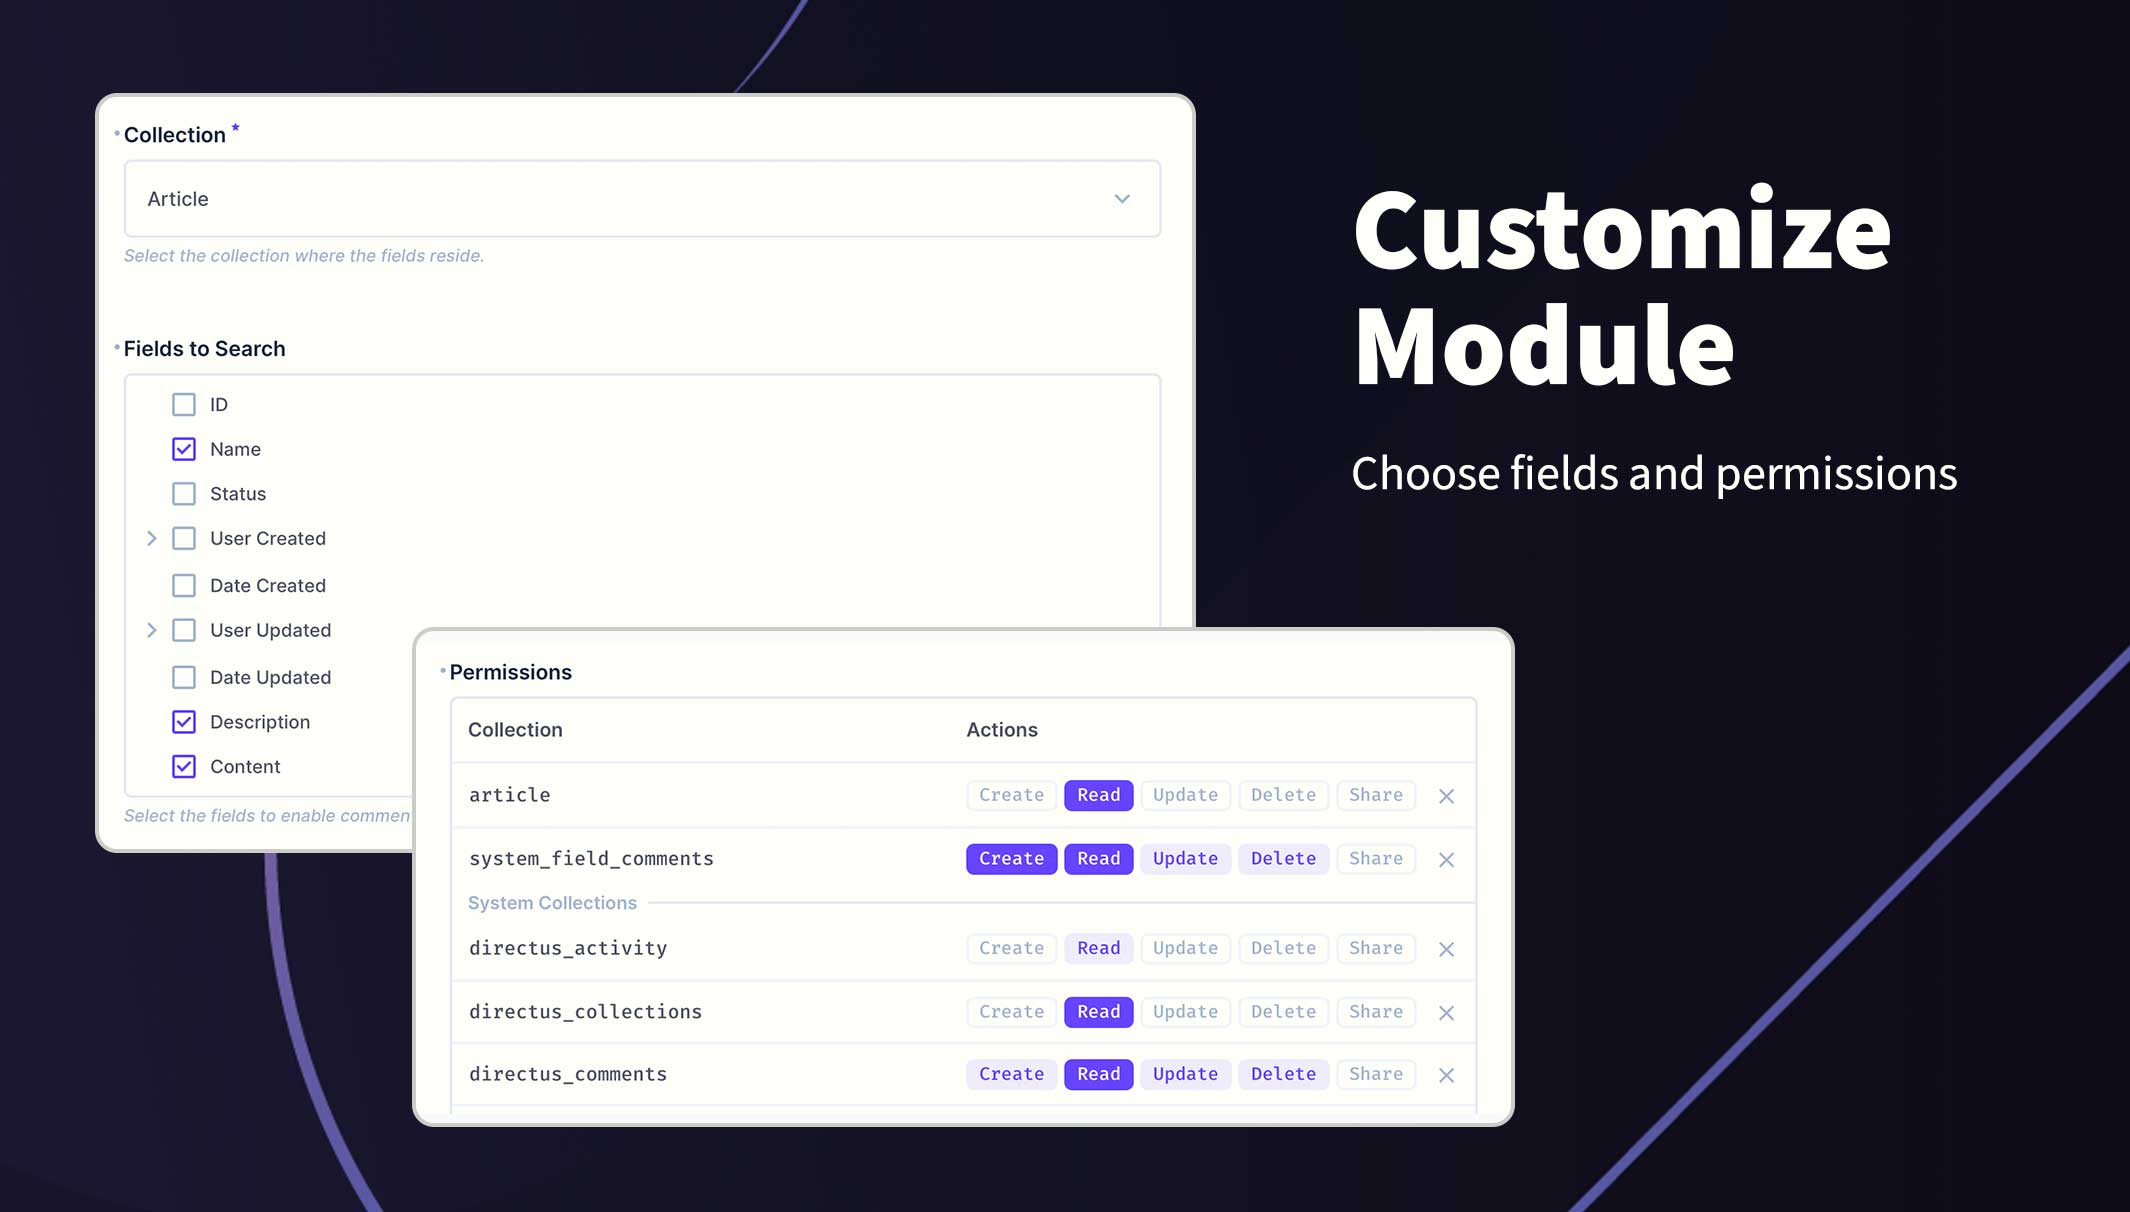
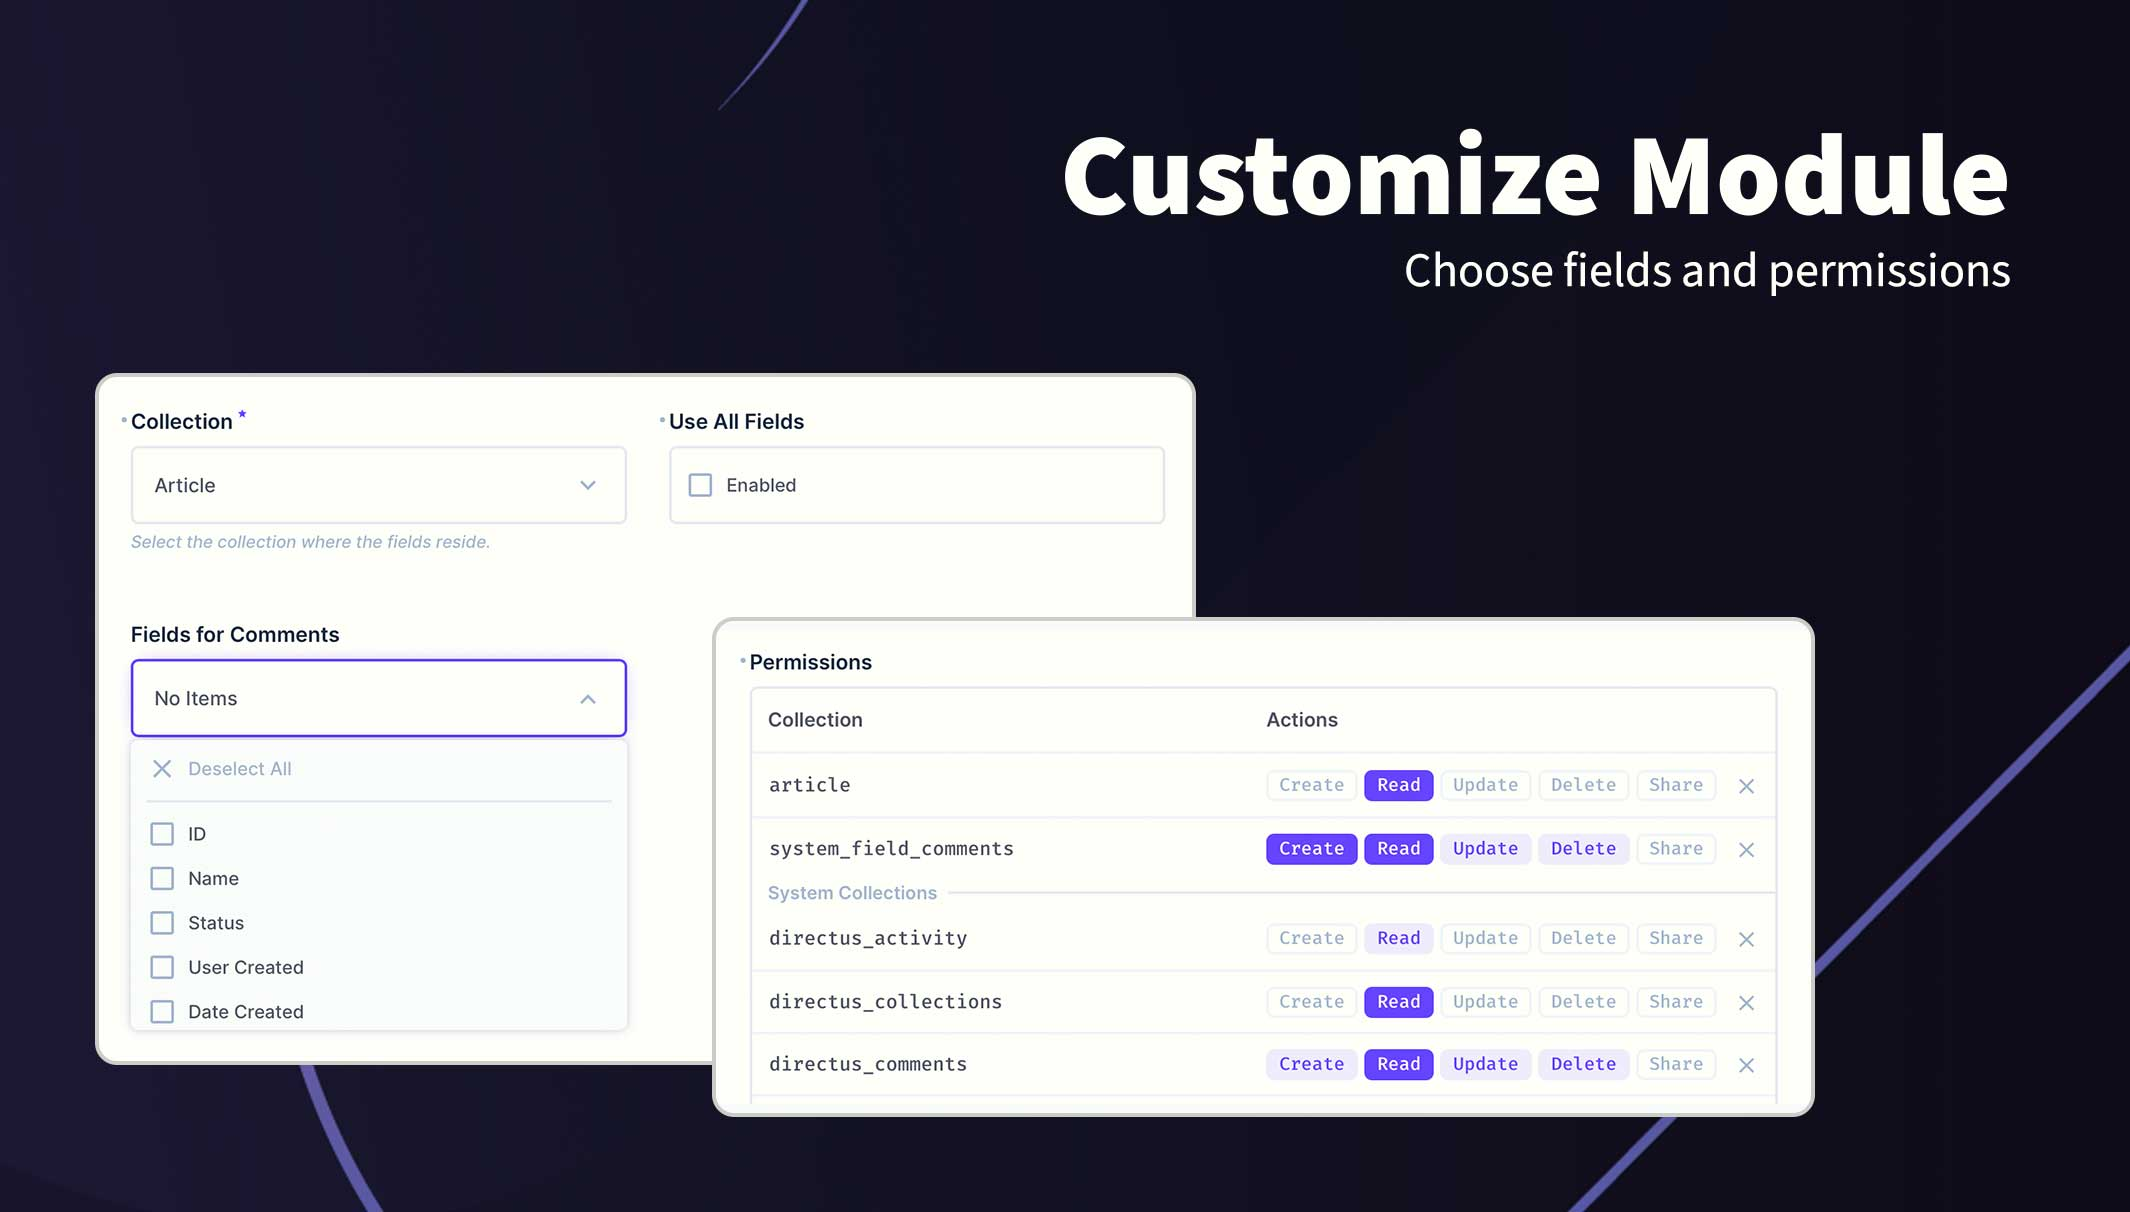
Allow all fields by default

diff --git a/packages/field-comments-module/src/settings-field.ts b/packages/field-comments-module/src/settings-field.ts
@@ -27,17 +27,43 @@ export const system_field: DeepPartial<Field> = {
           },
         },
         {
+          field: "all_fields",
+          type: "boolean",
+          name: "Use All Fields",
+          meta: {
+            interface: "toggle",
+            width: "half",
+          },
+          schema: {
+            default_value: true,
+          }
+        },
+        {
           field: "fields",
           type: "json",
           name: "Fields for Comments",
           meta: {
             interface: "system-field",
             options: {
+              placeholder: "Using All Fields",
               collectionField: "collection",
               multiple: true,
+              allowNone: true,
+              allowPrimaryKey: true,
+              allowForeignKeys: true,
             },
             note: "Select the fields to enable comments.",
             width: "half",
+            conditions: [
+							{
+								rule: {
+									all_fields: {
+										_eq: true,
+									},
+								},
+								hidden: true,
+							},
+						],
           },
         },
       ],

diff --git a/packages/field-comments-module/src/utils/inject-field-labels.ts b/packages/field-comments-module/src/utils/inject-field-labels.ts
@@ -187,7 +187,7 @@ async function injectApp(to: Record<string,any>, retry: number = 0) {
     const fieldLabels = document.querySelectorAll(".field-name") ?? [];
     fieldLabels.forEach((f: any) => {
       let label = f.querySelector("div") ? f.querySelector("div")?.innerHTML : f.innerHTML;
-      const matches: Array<Record<string,any>> = fields.filter((i: Field) => fieldCommentSettings.value[0].fields.includes(i.field) && i.name == label);
+      const matches: Array<Record<string,any>> = fields.filter((i: Field) => i.name == label && (fieldCommentSettings.value[0].all_fields || fieldCommentSettings.value[0].fields.includes(i.field)));
       const isEnabled: boolean = matches.length > 0;
 
       if(isEnabled){
